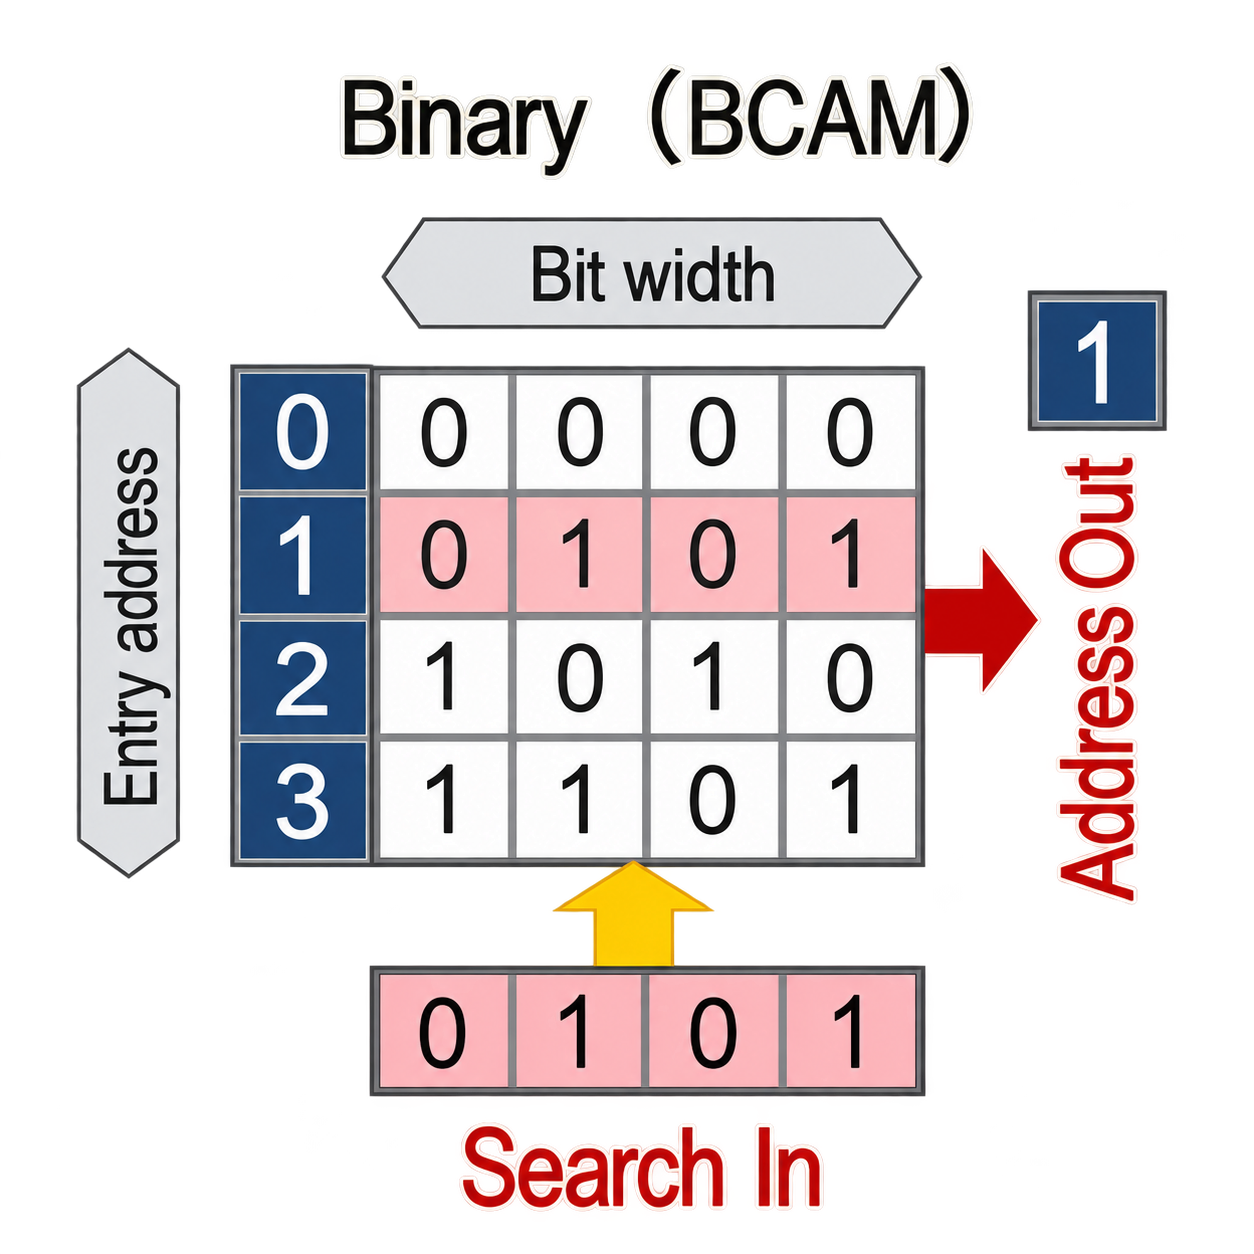
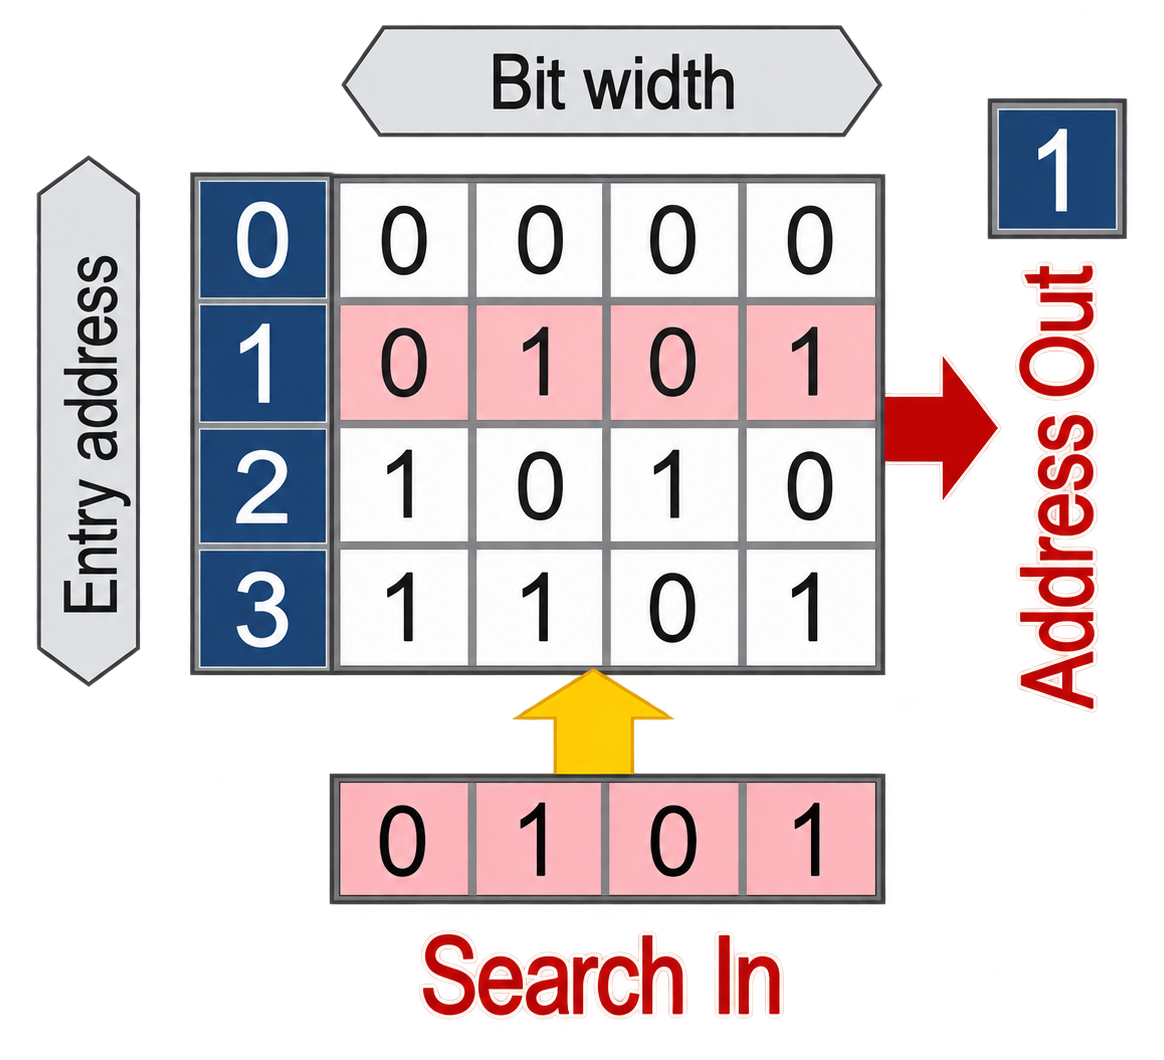
added missing type

diff --git a/docs/A1_memory_types.md b/docs/A1_memory_types.md
@@ -9,10 +9,14 @@ Addressable memory is accessed by specifying a numeric **address**. The system s
 
 Addressable memory comes in two families: **volatile** (loses data when power is removed) and **non-volatile** (retains data without power).
 
-<img src="../pics/memory_address.png" width="300"/>
+<img src="../pics/memory_address.png" width="250"/>
 
 
 ### Volatile Addressable Memory
+
+Volatile memory loses all of its contents the moment power is removed. Think of it like a whiteboard — fast and convenient to work with, but everything is erased when you turn off the lights. The memories below are all volatile: they need a constant power supply to hold data.
+
+<img src="../pics/volatile-memory.png" width="850"/>
 
 #### SRAM (Static Random-Access Memory)
 
@@ -20,11 +24,13 @@ SRAM stores each bit in a flip-flop circuit (a small latch that stays in one of 
 
 **Where it is used:** CPU caches, ASIC pipeline registers, on-chip lookup tables, metadata buffers — anywhere deterministic nanosecond-level access is critical.
 
-**Trade-off:** Each SRAM cell requires six transistors (compared to one transistor + one capacitor for DRAM), making it roughly 6× larger per bit and more power-hungry. This is why ASICs contain only a limited amount of on-chip SRAM — and why TCAM, which uses even larger cells, is even scarcer (see the [TCAM section](#ternary-cam-tcam) below).
+**Trade-off:** Each SRAM cell requires six transistors (compared to one transistor + one capacitor for DRAM), making it roughly 6× larger per bit and more power-hungry. This is why ASICs contain only a limited amount of on-chip SRAM.
 
 #### DRAM (Dynamic Random-Access Memory)
 
 DRAM stores each bit as a charge in a tiny capacitor. The capacitor leaks over time, so a memory controller must **refresh** every cell periodically (typically every 64 ms). This makes DRAM slower and less predictable than SRAM.
+
+In practice, the DRAM in modern systems is **DDR SDRAM** (Double Data Rate Synchronous DRAM). "Synchronous" means it runs off a clock shared with the memory controller; "double data rate" means it transfers data on both edges of each clock cycle. DDR4 and DDR5 are successive generations, and variants such as LPDDR (low power) and GDDR (high bandwidth) use the same DRAM cells with different interfaces.
 
 **Where it is used:** Main system RAM in computers and network devices, external packet buffers on switches or NICs that need deep queues.
 
@@ -57,20 +63,24 @@ EPROM improves on PROM by allowing the stored data to be erased using **ultravio
 
 #### EEPROM (Electrically Erasable Programmable ROM)
 
-EEPROM can be erased and reprogrammed **electrically** at the byte level, making it far more practical than EPROM. Endurance is limited (typically 100K–1M write cycles per cell) but sufficient for infrequently updated data like BIOS settings, SFP transceiver metadata (via [I²C/TWI](https://en.wikipedia.org/wiki/I%C2%B2C)), and small configuration stores.
+EEPROM can be erased and reprogrammed **electrically** at the byte level, making it far more practical than EPROM.
+
+**Where it is used:** BIOS settings, SFP transceiver metadata (accessed via [I²C/TWI](https://en.wikipedia.org/wiki/I%C2%B2C)), and small configuration stores.
+
+**Trade-off:** Byte-level access is flexible but slow, and endurance is limited (typically 100K–1M write cycles per cell) — sufficient for data that changes infrequently.
 
 #### Flash Memory
 
-Flash is a type of EEPROM optimized for **block-level** erasure rather than byte-level updates. This makes it far more scalable and cheaper, enabling high-density storage. Flash retains data without power and supports many write cycles.
+Flash is a type of EEPROM optimized for **block-level** erasure rather than byte-level updates. This makes it far more scalable and cheaper, enabling high-density storage.
 
 **Where it is used:** SSDs, embedded controllers, and switch/router boot storage.
+
+**Trade-off:** Much faster and denser than byte-level EEPROM, but blocks must be erased before they can be rewritten, and each block has a limited number of erase cycles (typically 10K–100K for NAND flash).
 
 
 ## Content-Addressable Memory (CAM)
 
-All of the memories above are *address-based* — you provide an address and get back data. Content-Addressable Memory (CAM) works in reverse: you provide **data** (a search key) and the memory tells you **where** (or whether) it matches. Every entry is compared **in parallel**, producing a result in a single clock cycle regardless of table size.
-
-This makes CAM extremely fast for lookups, but also expensive and power-hungry — each cell needs its own comparison logic.
+All of the memories above are *address-based* — you provide an address and get back data. Content-Addressable Memory (CAM) works in reverse: you provide **data** (a search key) and the memory tells you **where** (or whether) it matches. Every entry is compared **in parallel**, producing a result in a single clock cycle regardless of table size. This makes CAM extremely fast for lookups, but also expensive and power-hungry — each cell needs its own comparison logic.
 
 CAM comes in two forms: **Binary CAM** (exact match only) and **Ternary CAM** (wildcard match).
 
@@ -86,18 +96,22 @@ Binary CAM supports only two bit states — **0** and **1** — so every lookup 
 | Use Case | Why BCAM Fits |
 |----------|--------------|
 | **MAC address table (L2 forwarding)** | A destination MAC is looked up as an exact 48-bit value to find the output port. Modern switch ASICs normally hold the main table in SRAM hash tables, with BCAM as a small overflow stage |
-| **ARP / NDP cache** | IP-to-MAC mappings are exact key-value pairs; like MAC entries, host routes are normally stored in SRAM hash tables |
+| **ARP / NDP cache** | IP-to-MAC mappings are exact key-value pairs; like MAC tables, these are normally stored in SRAM hash tables with BCAM as a fallback |
 | **Exact-match ACL rules** | Rules that require full equality on every field are more efficient in BCAM than TCAM (lower power, smaller cells) |
 | **Hash collision resolution** | When a hash-based L2/L3 table produces collisions, BCAM is often used in the secondary stage to find the exact entry |
 
 
 ### Ternary CAM (TCAM)
 
-TCAM extends Binary CAM by adding a third bit state: **X** (don't care / wildcard). This allows a single entry to match a **range** of values — for example, a /24 prefix sets 24 bits to the specific address and the remaining 8 bits to X, enabling the prefix and wildcard matching that BCAM cannot express.
-
-TCAM entries are evaluated in **priority order**, and the highest-priority match wins. When used for ACLs, the switch presents a packet header and the TCAM compares it against all stored rules in parallel, returning the highest-priority match in a single clock cycle. This is what makes line-rate evaluation possible.
+TCAM extends Binary CAM by adding a third bit state: **X** (don't care / wildcard). This allows a single entry to match a **range** of values. TCAM adds a critical feature on top of parallel lookup: **priority order**. When multiple entries match a search key, the highest-priority match wins.
 
 <img src="../pics/memory_tcam.png" width="300"/>
+
+In the picture, the search key `0101` is compared against all four entries at once. Entry 1 (`0X01`) matches because its X bit accepts either value, and entry 3 (`0101`) matches exactly. Entries 0 and 2 do not match. When multiple entries match, a **priority encoder** selects the one with the lowest index. Here, entry 1 wins, so the TCAM returns address **1**.
+
+The TCAM itself returns only this address. The associated result — such as a next hop or an ACL action — is stored in a separate SRAM table at the same index.
+
+Because the lowest index wins, software must place entries in the right order when it writes them. The two most common uses of TCAM in a switch, route lookup and ACLs, both depend on this ordering.
 
 **Where TCAM is used in networking:**
 
@@ -109,7 +123,46 @@ TCAM entries are evaluated in **priority order**, and the highest-priority match
 | **Policy-Based Routing (PBR)** | PBR rules match on combinations of source IP, destination IP, ports, and DSCP — often with wildcards |
 | **Security filtering** | Matching ranges, subnets, and flexible patterns for firewall-like filters |
 
-**Why TCAM is scarce.** Parallel comparison across all entries requires dedicated comparison logic per bit per entry. A typical TCAM cell uses **16 transistors** versus 6 for an SRAM cell, making it roughly **2–3× larger** in area and significantly more power-hungry — the most silicon-expensive memory in a switch. ASICs typically include only enough TCAM for a few thousand to tens of thousands of entries, depending on the platform and how the TCAM is partitioned across features. Networks frequently "run out of TCAM" when many ACLs, VRFs, or routing policies are installed.
+Parallel comparison across all entries requires dedicated comparison logic per bit per entry. A typical TCAM cell uses **16 transistors** versus 6 for an SRAM cell, making it roughly **2–3× larger** in area and significantly more power-hungry — the most silicon-expensive memory in a switch. ASICs typically include only enough TCAM for a few thousand to tens of thousands of entries, depending on the platform and how the TCAM is partitioned across features. Networks frequently "run out of TCAM" when many ACLs, VRFs, or routing policies are installed.
+
+#### Longest Prefix Match (LPM)
+
+A routing table often contains several routes that overlap. For example, `10.0.0.0/8`, `10.1.0.0/16`, and `10.1.2.0/24` all contain the address `10.1.2.5`. The routing rule is that the **most specific route wins**: the one with the longest prefix, because it describes the destination most precisely. This rule is called Longest Prefix Match.
+
+TCAM implements LPM directly. Each route is stored as its network bits followed by X for every host bit, and the entries are ordered from longest prefix to shortest:
+
+| Index | Route | Stored as | Result (in SRAM) |
+|-------|-------|-----------|------------------|
+| 0 | `10.1.2.0/24` | `10.1.2.X` | Next hop A |
+| 1 | `10.1.0.0/16` | `10.1.X.X` | Next hop B |
+| 2 | `10.0.0.0/8` | `10.X.X.X` | Next hop C |
+| 3 | `0.0.0.0/0` (default route) | `X.X.X.X` | Next hop D |
+
+Here each X stands for eight don't-care bits. The switch uses the packet's destination IP address as the search key:
+
+- `10.1.2.5` matches all four entries. Index 0 has the highest priority, so the packet goes to next hop A.
+- `10.1.9.9` matches indexes 1, 2, and 3, so it goes to next hop B.
+- `192.168.1.1` matches only the default route at index 3, so it goes to next hop D.
+
+Because longer prefixes sit at lower indexes, "highest priority" and "longest prefix" mean the same thing. Adding a route may require shifting existing entries to keep this order. The ASIC's SDK handles that when routes are programmed.
+
+#### Access Control Lists (ACLs)
+
+An ACL is a list of rules that decide what happens to a packet, such as permit, drop, or redirect. Each rule matches on several header fields at once, for example source IP, destination IP, protocol, and destination port. Any field a rule does not specify means "any value". Rules have priorities, and when more than one rule matches, the highest-priority rule decides the action.
+
+To evaluate ACLs in a TCAM, the switch builds the search key by placing the selected header fields side by side. Each rule is stored across that key, with X in every bit the rule does not care about:
+
+| Index | Rule | Source IP | Destination IP | Protocol | Dest. port | Action (in SRAM) |
+|-------|------|-----------|----------------|----------|------------|------------------|
+| 0 | Allow SSH from the management subnet | `10.0.0.X` | X | TCP | 22 | Permit |
+| 1 | Block all other SSH | X | X | TCP | 22 | Drop |
+| 2 | Block one untrusted subnet | `192.168.5.X` | X | X | X | Drop |
+
+- A TCP packet from `10.0.0.7` to port 22 matches indexes 0 and 1. Index 0 wins, so the packet is permitted.
+- A TCP packet from `172.16.1.1` to port 22 matches only index 1, so it is dropped.
+- A UDP packet from `172.16.1.1` to port 53 matches no rule. Nothing is applied, and the packet continues with normal forwarding.
+
+All rules are checked in a single lookup, no matter how many there are, which is why ACLs can be applied at **line rate** (the maximum speed of the port, with no slowdown from processing). One limitation is that a mask can only express prefix-style patterns. A port range such as 1024–65535 cannot be written as a single entry, so it is split into several entries, or handled by dedicated range-check hardware on some ASICs. This is one reason ACLs consume TCAM faster than their rule count suggests. For how SONiC programs ACLs into the ASIC, see [Access Control Lists](20_acl.md).
 
 
 ## Quick Comparison
